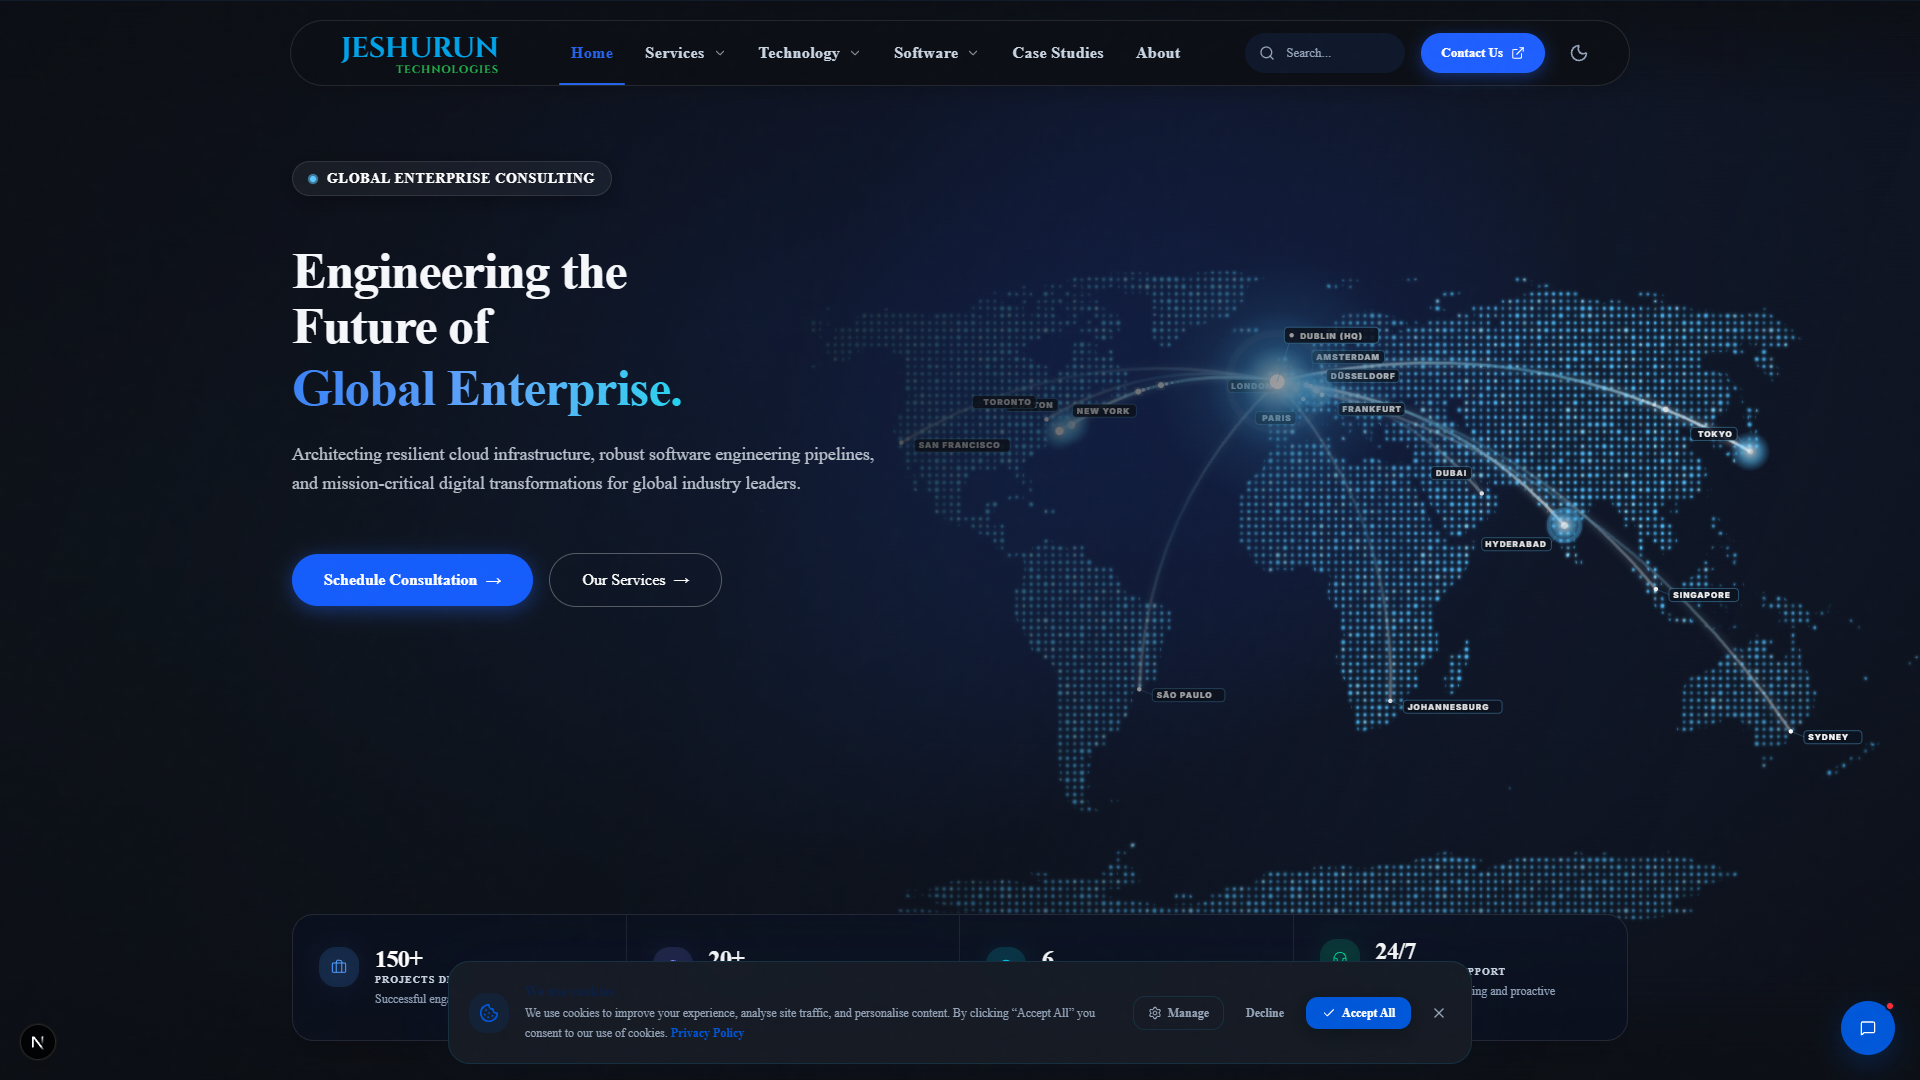
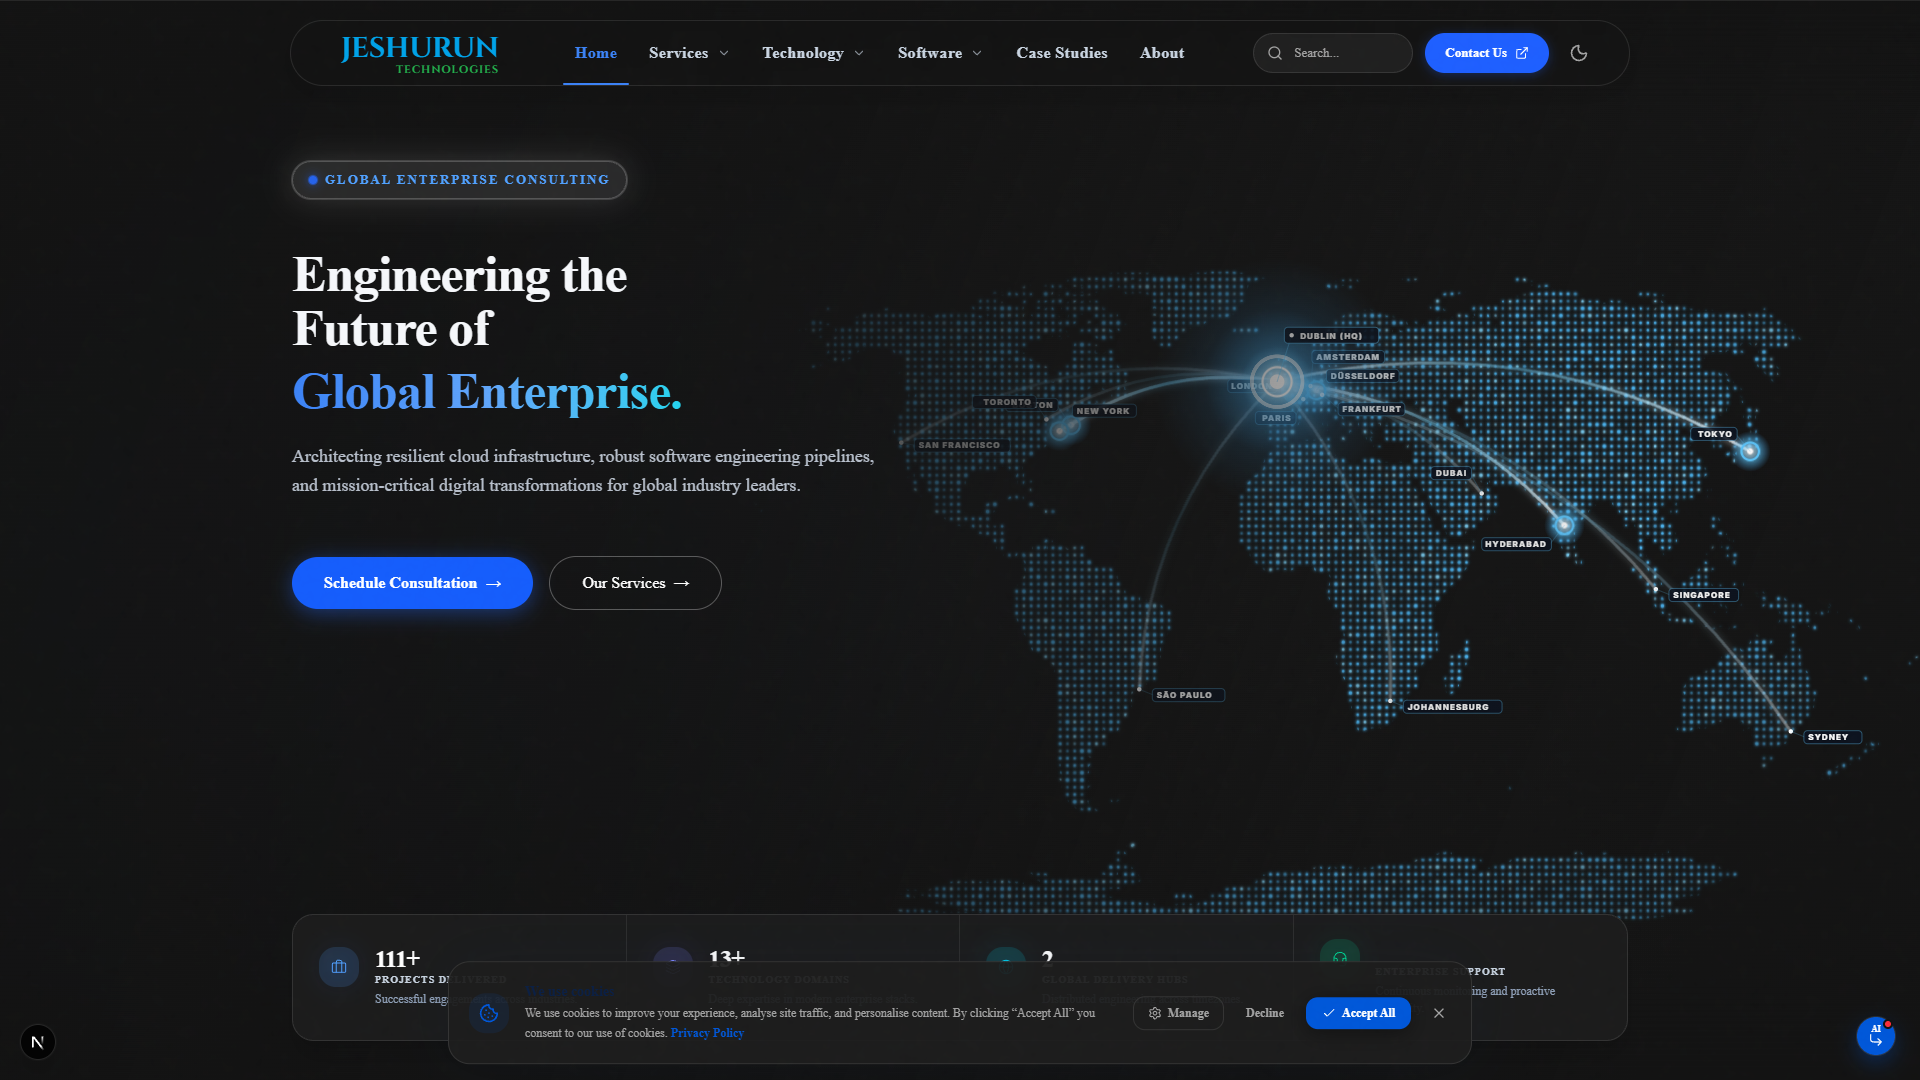
fix: adjust world map vertical alignment in hero section

diff --git a/scratch/remove-antarctica.js b/scratch/remove-antarctica.js
@@ -1,0 +1,44 @@
+const fs = require('fs');
+const content = fs.readFileSync('src/lib/worldMapPath.ts', 'utf-8');
+const match = content.match(/export const worldMapPath = "(.*?)";/);
+if (!match) { console.log('not found'); process.exit(1); }
+const pathStr = match[1];
+const subpaths = pathStr.split('M').filter(s => s.trim().length > 0).map(s => 'M' + s);
+console.log('Total subpaths:', subpaths.length);
+
+let maxYs = subpaths.map((sp, idx) => {
+  let m = 0;
+  const pairs = sp.match(/[\d\.]+,[\d\.]+/g);
+  if (pairs) {
+    pairs.forEach(p => {
+      const y = parseFloat(p.split(',')[1]);
+      if (y > m) m = y;
+    });
+  }
+  return { idx, maxY: m, length: sp.length };
+});
+
+maxYs.sort((a,b) => b.maxY - a.maxY);
+console.log('Top 5 subpaths by maxY:');
+console.log(maxYs.slice(0, 5));
+
+// Rebuild without the Antarctica subpath (which is likely the one with the highest maxY, probably around 540-560)
+// Let's filter out anything with a maxY > 450 (South America goes down to ~420, maybe).
+// Let's print the actual maxY of South America and Antarctica.
+const filtered = subpaths.filter((sp, idx) => {
+  // Find the max Y for this subpath
+  let m = 0;
+  const pairs = sp.match(/[\d\.]+,[\d\.]+/g);
+  if (pairs) {
+    pairs.forEach(p => {
+      const y = parseFloat(p.split(',')[1]);
+      if (y > m) m = y;
+    });
+  }
+  return m < 450;
+});
+console.log('Filtered subpaths:', filtered.length);
+const newPathStr = filtered.join('');
+const newContent = content.replace(/export const worldMapPath = "(.*?)";/, `export const worldMapPath = "${newPathStr}";`);
+fs.writeFileSync('src/lib/worldMapPath.ts', newContent);
+console.log('Done!');

diff --git a/src/components/WorldMap.tsx b/src/components/WorldMap.tsx
@@ -141,7 +141,7 @@ export function WorldMap({ isAmbient = false, forceDark = false }: { isAmbient?:
         />
       )}
       {/* Size and position the map to anchor to the right and spill over to the left behind text */}
-      <div className={isAmbient ? "absolute inset-0 w-full h-full scale-[1.8] md:scale-150" : "absolute right-[-20%] md:right-[-5%] lg:right-[0%] top-[55%] md:top-[60%] lg:top-[55%] -translate-y-1/2 w-[140%] md:w-[75%] lg:w-[60%] xl:w-[65%] aspect-[860/440]"}>
+      <div className={isAmbient ? "absolute inset-0 w-full h-full scale-[1.8] md:scale-150" : "absolute right-[-20%] md:right-[-5%] lg:right-[0%] top-[50%] md:top-[52%] lg:top-[50%] -translate-y-1/2 w-[140%] md:w-[75%] lg:w-[60%] xl:w-[65%] aspect-[860/440]"}>
         <svg 
           ref={svgRef}
           viewBox={`0 0 ${WORLD_MAP_WIDTH} ${WORLD_MAP_HEIGHT}`} 

diff --git a/scratch/check-maxy.js b/scratch/check-maxy.js
@@ -1,0 +1,19 @@
+const fs = require('fs');
+const content = fs.readFileSync('src/lib/worldMapPath.ts', 'utf-8');
+const match = content.match(/export const worldMapPath = "(.*?)";/);
+if (!match) { console.log('not found'); process.exit(1); }
+const pathStr = match[1];
+const subpaths = pathStr.split('M').filter(s => s.trim().length > 0).map(s => 'M' + s);
+let maxYs = subpaths.map((sp, idx) => {
+  let m = 0;
+  const pairs = sp.match(/[\d\.]+,[\d\.]+/g);
+  if (pairs) {
+    pairs.forEach(p => {
+      const y = parseFloat(p.split(',')[1]);
+      if (y > m) m = y;
+    });
+  }
+  return m;
+});
+maxYs.sort((a,b) => b - a);
+console.log('Top maxYs of remaining map:', maxYs.slice(0, 5));
